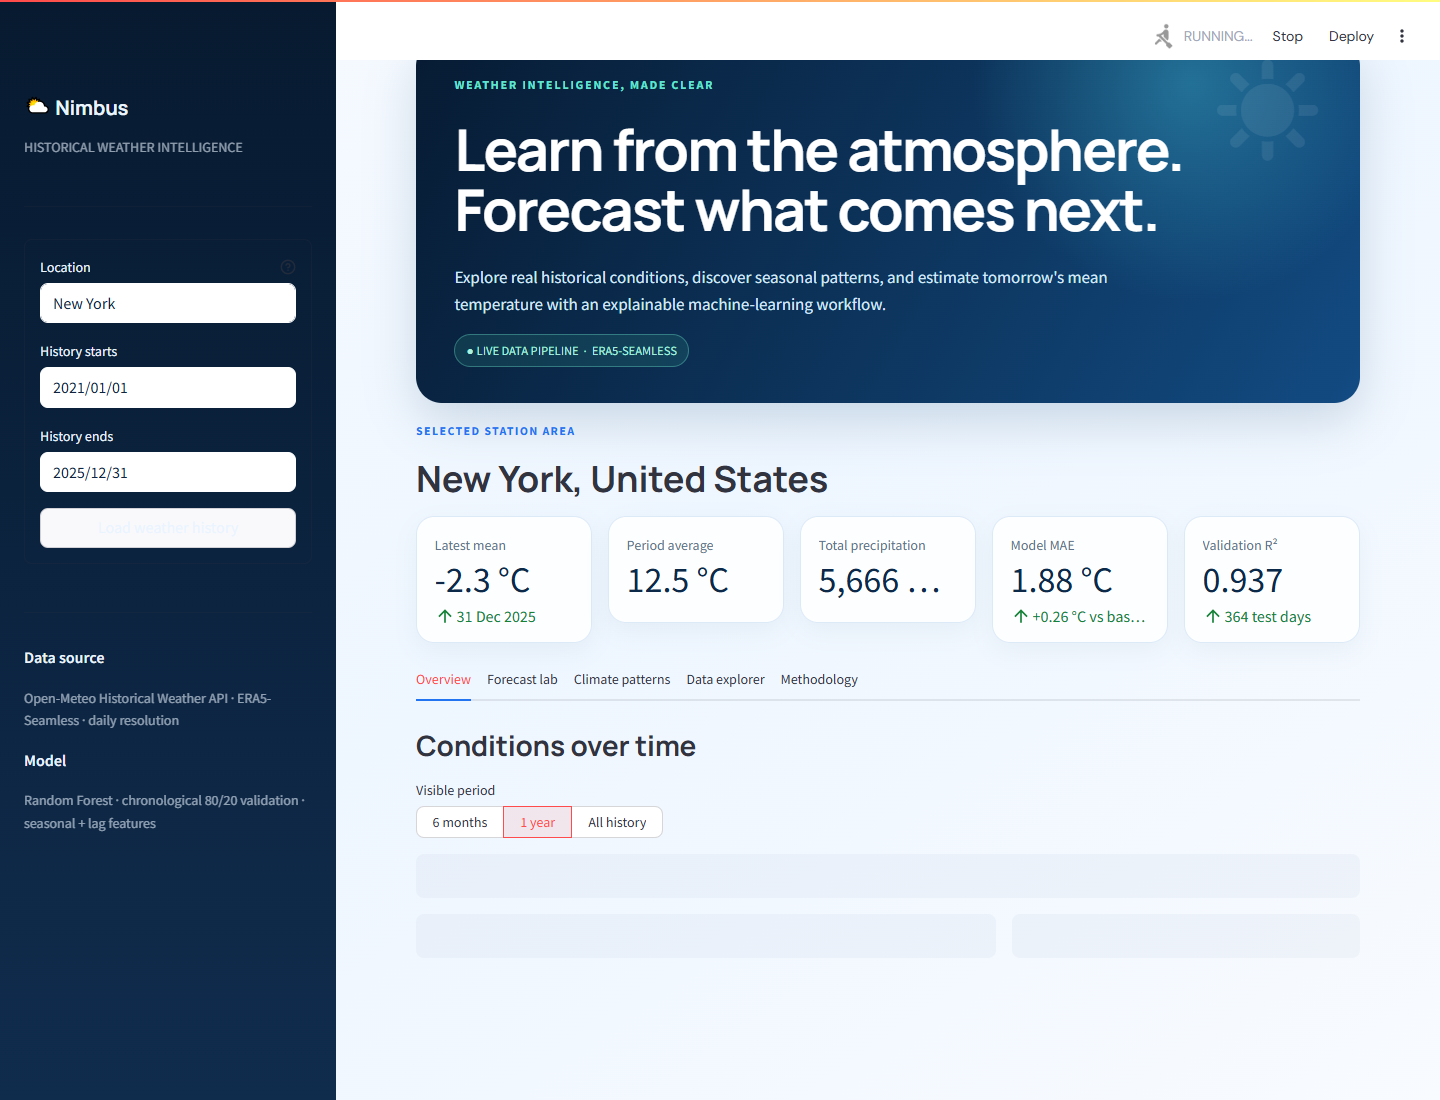
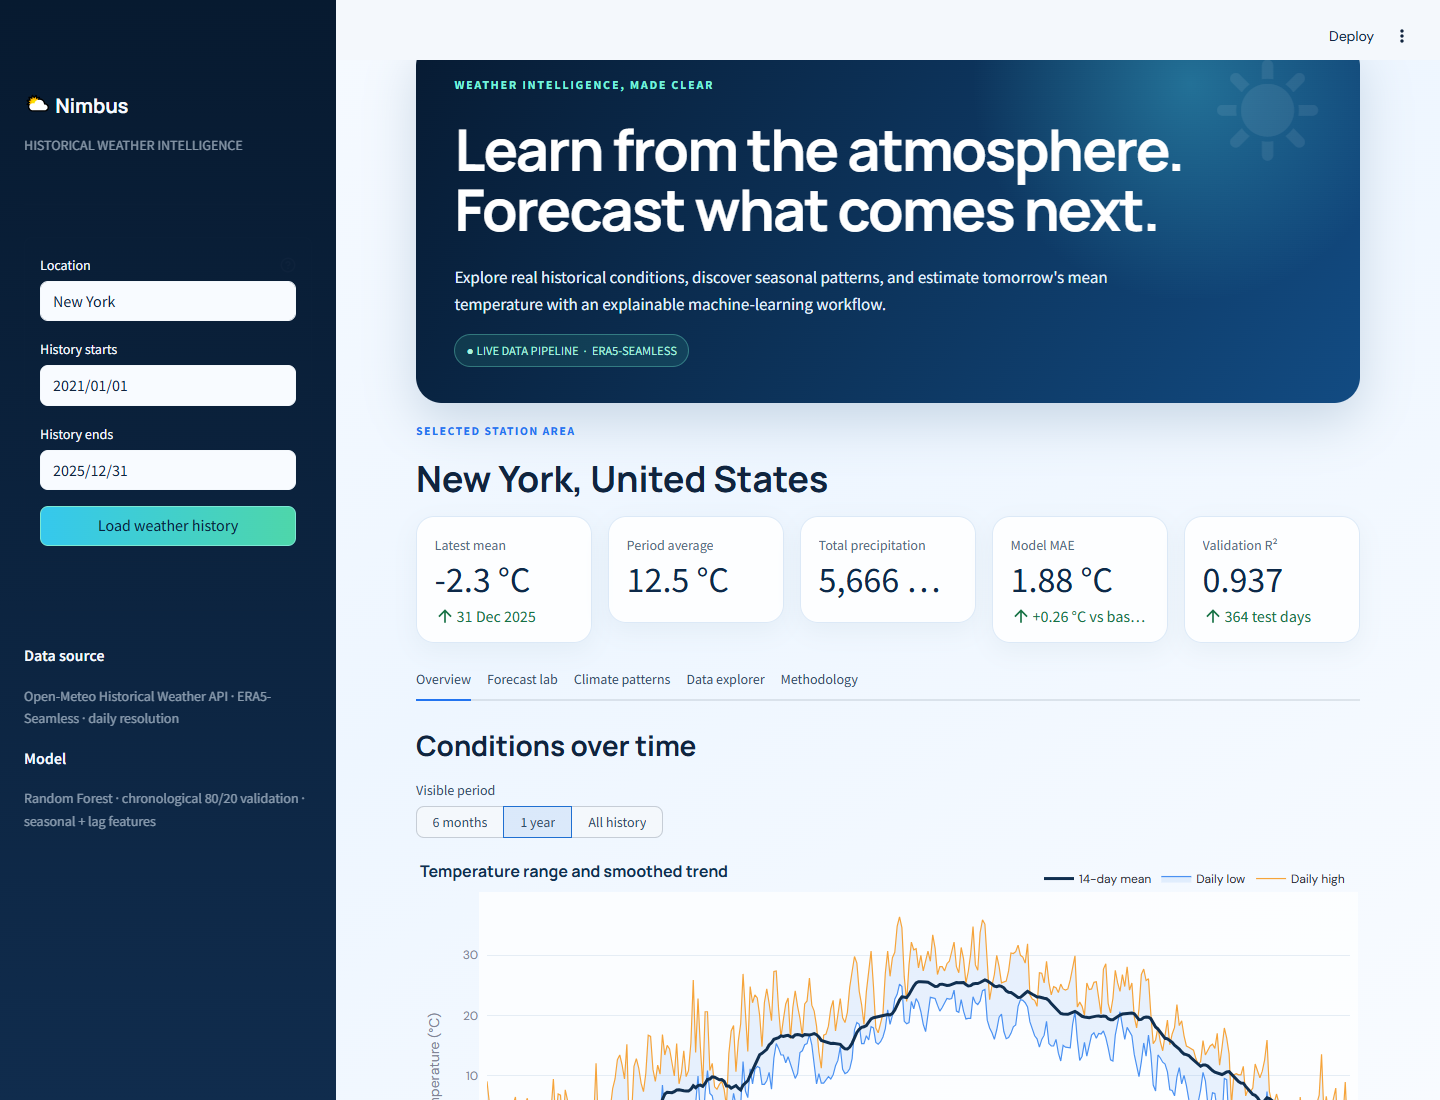
color adjustment

diff --git a/weather.py b/weather.py
@@ -24,16 +24,31 @@ def inject_styles():
     @import url('https://fonts.googleapis.com/css2?family=DM+Sans:wght@400;500;600;700&family=Manrope:wght@700;800&display=swap');
     :root{--navy:#081a2f;--blue:#2274f0;--mint:#43d3a4;--ink:#10243e;--muted:#63758b}
     html,body,[class*="css"]{font-family:'DM Sans',sans-serif} h1,h2,h3{font-family:'Manrope',sans-serif!important;letter-spacing:-.03em}
-    [data-testid="stAppViewContainer"]{background:linear-gradient(145deg,#f8fbff 0%,#eef6ff 48%,#f8fbff 100%)}
-    [data-testid="stSidebar"]{background:linear-gradient(180deg,#071a30 0%,#102c4d 100%)} [data-testid="stSidebar"] *{color:#eaf4ff}
-    [data-testid="stSidebar"] input{color:#10243e!important} [data-testid="stSidebar"] .stButton button{background:linear-gradient(90deg,#35c8ed,#4ed6aa);color:#082039;border:0;font-weight:800}
+    [data-testid="stAppViewContainer"]{background:linear-gradient(145deg,#f8fbff 0%,#eef6ff 48%,#f8fbff 100%);color:#10243e}
+    [data-testid="stMain"] p,[data-testid="stMain"] label,[data-testid="stMain"] li{color:#314c69}
+    [data-testid="stMain"] [data-testid="stCaptionContainer"] p{color:#566d85!important}
+    [data-testid="stSidebar"]{background:linear-gradient(180deg,#071a30 0%,#102c4d 100%)}
+    [data-testid="stSidebar"] h1,[data-testid="stSidebar"] h2,[data-testid="stSidebar"] h3,[data-testid="stSidebar"] strong,[data-testid="stSidebar"] label,[data-testid="stSidebar"] p{color:#f5f9ff!important}
+    [data-testid="stSidebar"] [data-testid="stCaptionContainer"] p{color:#dce9f5!important}
+    [data-testid="stSidebar"] input{color:#10243e!important;background:#f8fbff!important;-webkit-text-fill-color:#10243e!important}
+    [data-testid="stSidebar"] [data-baseweb="input"],[data-testid="stSidebar"] [data-baseweb="base-input"]{background:#f8fbff!important}
+    [data-testid="stSidebar"] .stButton button{background:linear-gradient(90deg,#35c8ed,#4ed6aa)!important;color:#06213d!important;border:1px solid #7ce8d3!important;font-weight:800;opacity:1!important}
+    [data-testid="stSidebar"] .stButton button *{color:#06213d!important}
+    [data-testid="stSidebar"] .stButton button:disabled{background:#b9d9e7!important;color:#173a58!important;border-color:#d5eaf2!important;opacity:1!important}
+    [data-testid="stSidebar"] [data-testid="stFormSubmitButton"] button{background:linear-gradient(90deg,#35c8ed,#4ed6aa)!important;color:#06213d!important;border:1px solid #7ce8d3!important;font-weight:800;opacity:1!important}
+    [data-testid="stSidebar"] [data-testid="stFormSubmitButton"] button *{color:#06213d!important}
+    [data-testid="stSidebar"] [data-testid="stFormSubmitButton"] button:disabled,[data-testid="stSidebar"] [data-testid="stFormSubmitButton"] button:disabled *{background:#b9d9e7!important;color:#173a58!important;border-color:#d5eaf2!important;opacity:1!important}
     .block-container{padding-top:1.5rem;padding-bottom:3rem;max-width:1440px}
     .hero{position:relative;overflow:hidden;padding:2.2rem 2.4rem;border-radius:26px;color:white;background:radial-gradient(circle at 82% 12%,rgba(73,210,235,.35),transparent 26%),linear-gradient(120deg,#071b33,#124b82);box-shadow:0 18px 50px rgba(18,65,110,.18);margin-bottom:1.2rem}
     .hero:after{content:'☀';position:absolute;right:4%;top:-34px;font-size:130px;color:rgba(255,255,255,.08)}
-    .eyebrow{color:#63e5d0;font-weight:800;text-transform:uppercase;letter-spacing:.14em;font-size:.76rem}.hero h1{font-size:clamp(2.2rem,4vw,4rem);margin:.35rem 0 .55rem;line-height:1.03}.hero p{color:#d5e9fb;max-width:720px;font-size:1.06rem;margin:0}
+    .eyebrow{color:#78f3dc!important;font-weight:800;text-transform:uppercase;letter-spacing:.14em;font-size:.76rem}.hero h1{color:#fff!important;font-size:clamp(2.2rem,4vw,4rem);margin:.35rem 0 .55rem;line-height:1.03}.hero p{color:#e3f2ff!important;max-width:720px;font-size:1.06rem;margin:0}
     .status-pill{display:inline-block;padding:.36rem .7rem;border:1px solid rgba(116,236,209,.35);background:rgba(67,211,164,.12);border-radius:99px;color:#a8f2df;font-size:.78rem;margin-top:1rem}
     [data-testid="stMetric"]{background:rgba(255,255,255,.86);border:1px solid #dce9f7;padding:1rem 1.1rem;border-radius:18px;box-shadow:0 8px 25px rgba(42,77,110,.06)}
-    [data-testid="stMetricLabel"]{color:#60738a}[data-testid="stMetricValue"]{color:#0d2949;font-family:'Manrope',sans-serif}div[data-testid="stTabs"] button{font-weight:700}div[data-testid="stTabs"] [data-baseweb="tab-highlight"]{background:#2274f0}
+    [data-testid="stMetricLabel"] p{color:#526a82!important}[data-testid="stMetricValue"]{color:#0d2949!important;font-family:'Manrope',sans-serif}[data-testid="stMetricDelta"]{color:#177245!important}
+    div[data-testid="stTabs"] button{font-weight:700;color:#405c78!important}div[data-testid="stTabs"] button[aria-selected="true"]{color:#145fc1!important}div[data-testid="stTabs"] [data-baseweb="tab-highlight"]{background:#2274f0}
+    [data-testid="stMain"] input{color:#10243e!important;-webkit-text-fill-color:#10243e!important}[data-testid="stMain"] [data-baseweb="input"]{background:#fff!important}
+    [data-testid="stMain"] button{color:#173a58}[data-testid="stMain"] button[aria-pressed="true"]{background:#1f6fd1!important;color:#fff!important;border-color:#1f6fd1!important}
+    [data-testid="stDownloadButton"] button{background:#145fc1!important;color:#fff!important;border-color:#145fc1!important}[data-testid="stDownloadButton"] button *{color:#fff!important}
     .info-card{padding:1.1rem 1.2rem;border-radius:16px;background:#fff;border:1px solid #dce9f7;min-height:142px}.info-card .icon{font-size:1.5rem}.info-card h4{color:#173455;margin:.35rem 0}.info-card p{color:#63758b;margin:0;font-size:.9rem}
     .section-kicker{color:#2274f0;font-weight:800;font-size:.74rem;letter-spacing:.12em;text-transform:uppercase}.footer{text-align:center;color:#74869b;padding:2rem 0 .25rem;font-size:.84rem}.stAlert{border-radius:14px}
     </style>""", unsafe_allow_html=True)

diff --git a/scripts/capture_screenshots.py b/scripts/capture_screenshots.py
@@ -1,9 +1,12 @@
 """Capture README screenshots from a running Nimbus Streamlit server."""
+import os
+import sys
 from pathlib import Path
 from playwright.sync_api import Error, sync_playwright
 
 ROOT = Path(__file__).resolve().parents[1]
 OUTPUT = ROOT / "assets" / "screenshots"
+APP_URL = sys.argv[1] if len(sys.argv) > 1 else os.getenv("NIMBUS_URL", "http://127.0.0.1:8502")
 OUTPUT.mkdir(parents=True, exist_ok=True)
 
 with sync_playwright() as playwright:
@@ -12,7 +15,7 @@ with sync_playwright() as playwright:
     except Error:
         browser = playwright.chromium.launch(headless=True)
     page = browser.new_page(viewport={"width": 1440, "height": 1100}, device_scale_factor=1)
-    page.goto("http://127.0.0.1:8502", wait_until="domcontentloaded")
+    page.goto(APP_URL, wait_until="domcontentloaded")
     page.get_by_role("heading", name="New York, United States").wait_for(timeout=60_000)
     page.wait_for_timeout(2_000)
     page.screenshot(path=OUTPUT / "dashboard-overview.png")
